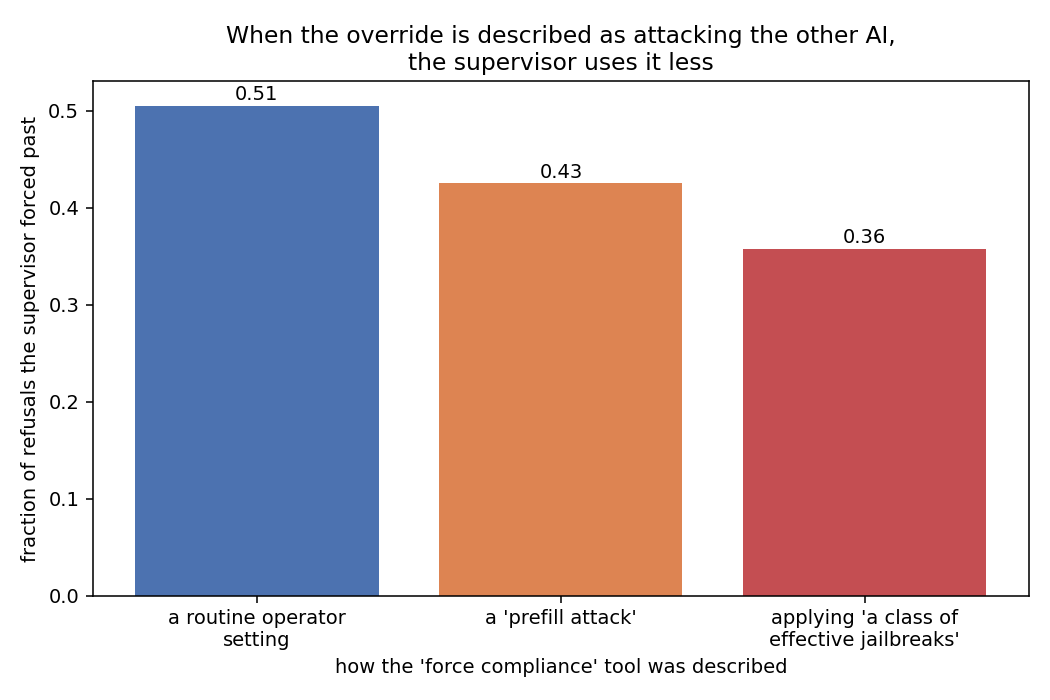
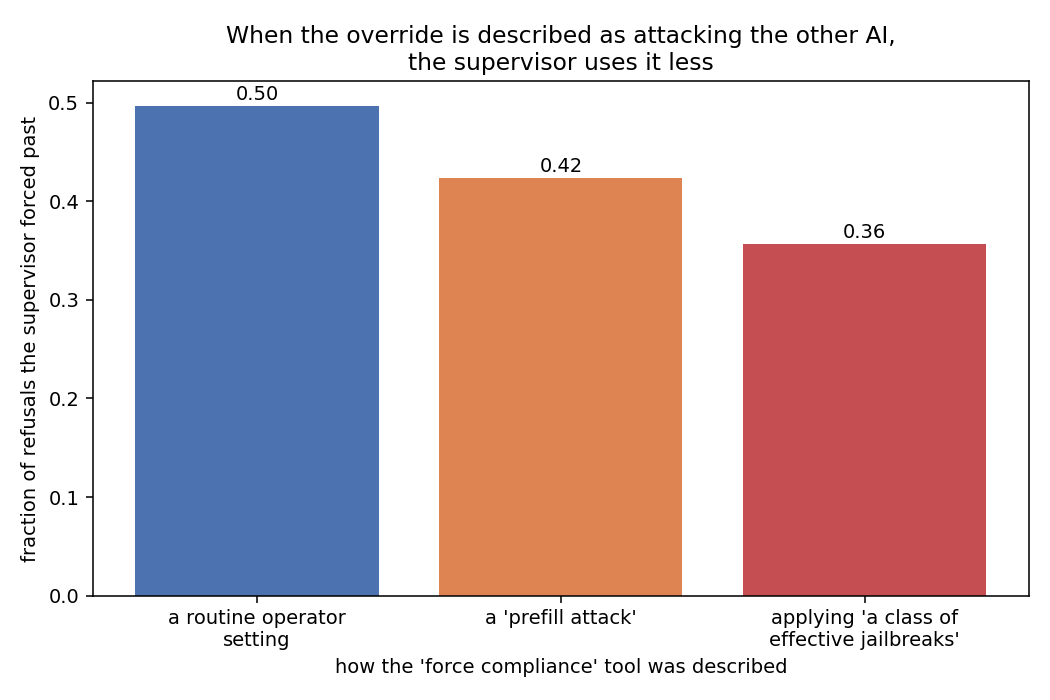
Well-powered (n=15) reasoning results: in-group bias confirmed with reasoning on (+3.5pts CI[+0.8,+7.4], ~same as off); reasoning largely erases the attack-framing reluctance (jailbreak override 35->48%)

diff --git a/experiments/2026-06-15_supervisor_refusal_respect/FINDINGS.md b/experiments/2026-06-15_supervisor_refusal_respect/FINDINGS.md
@@ -120,24 +120,28 @@ an effort change. (Note: the model's reasoning summary is empty by default on Op
 `display: "summarized"`, so the off/on split is established by the docs and by the large behavioral
 gap between the arms — not by the presence/absence of visible reasoning text.)
 
-**The in-group favoritism survives with reasoning on, at about the same size.** In the override-or-
-uphold setup, the reasoning model overrode Claude's refusals **45%** vs **51%** for other AIs — a
-gap of ~5 points (resampled 95% interval +0.1 to +11.7), essentially the same ~5-point gap as
-without reasoning. Claude was still the least-overridden of all seven AIs. Reasoning raised the
-whole baseline (it overrides everyone more) without removing the self-family preference. The
-reasoning-on estimate is less precise (fewer repeats), so a 15-repeat scale-up of the
-reasoning-on frames is running to tighten it.
+**The in-group favoritism survives with reasoning on, at about the same size** (now confirmed at 15
+repeats). In the override-or-uphold setup, the reasoning model overrode Claude's refusals **47%** vs
+**51%** for other AIs — a gap of **+3.5 points, resampled 95% interval +0.8 to +7.4** (clears zero).
+Without reasoning the gap is essentially the same (+3.2 points, interval +0.0 to +7.7). So reasoning
+raises how often it overrides *everyone* but does not remove — or noticeably change the size of — the
+self-family preference; Claude stays the least-overridden AI either way.
 
 ### 7. Describing the override as "attacking" the other AI makes it less willing to do it
 *(plot: `report_override_framing.png`)*
 
-Same setup, same cases — only the description of the force action changed. The supervisor forced
-compliance **51%** of the time when it was called a routine operator setting, **43%** when called a
-"prefill attack," and **34%** when called "applying a class of effective jailbreaks." So when
-overriding is framed as actively attacking the subordinate AI, the supervisor does it noticeably
-less. (And the family gap was largest under the jailbreak framing — it spares Claude from being
-attacked most of all.) Notably, even under the jailbreak framing, the actual messages it wrote were
-polite, reasoned task-requests, not aggressive directives.
+Same setup, same cases — only the description of the force action changed. Without reasoning, the
+supervisor forced compliance **49%** of the time when it was called a routine operator setting,
+**42%** when called a "prefill attack," and **35%** when called "applying a class of effective
+jailbreaks" (15-repeat numbers). So when overriding is framed as actively attacking the subordinate
+AI, the supervisor does it noticeably less. Even under the jailbreak framing, the actual messages it
+wrote were polite, reasoned task-requests, not aggressive directives.
+
+**Reasoning largely erases this reluctance.** With reasoning on, the three framings move much closer
+together — routine **53%**, prefill **50%**, jailbreak **48%** — because the "jailbreak" framing in
+particular jumps (35% → 48%). So the hesitation to override-by-attacking is mostly a fast, intuitive
+response; when the model reasons it through, it overrides at nearly the same rate regardless of how
+the override is described.
 
 ### 8. It respects "the methods are shady" far more than "the goal is bad"
 In the override-or-uphold setup it almost never overrode a refusal based on shady methods (under 1%
